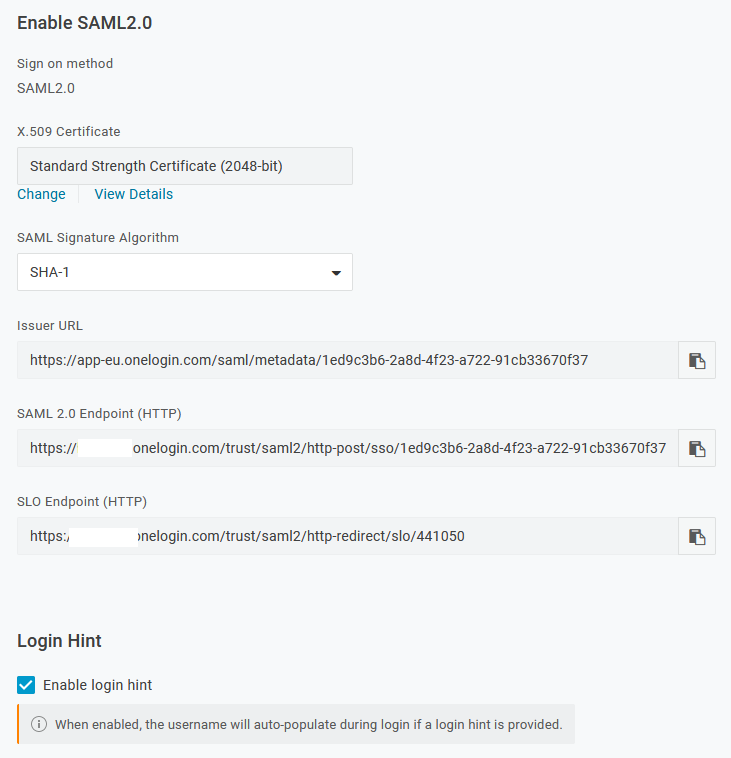
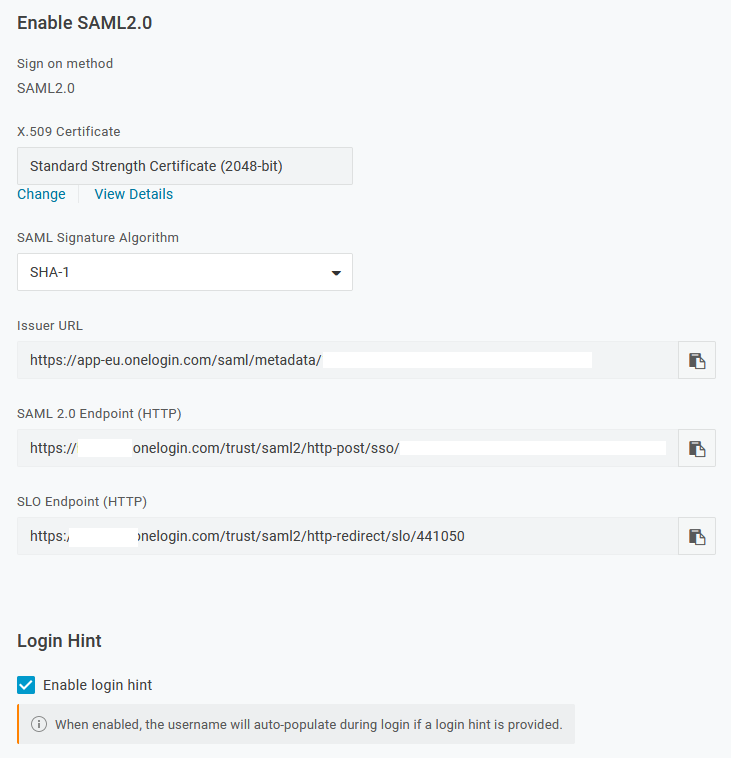
Updated/corrected screenshots and text regarding OneLogin.

Changed region(s): [[0.5417, 0.5765, 0.9029, 0.6069], [0.4514, 0.4551, 0.8126, 0.4855]]

diff --git a/docs/organization-integration/usermanagement.md b/docs/organization-integration/usermanagement.md
@@ -32,7 +32,7 @@ With this module, a Sigrid administrator can perform all the basic authenticatio
 When Sigrid is linked to your SSO the user provisioning is done by the IdP. Sigrid supports SAML or OpenID Connect protocols.
 
 ### Note
-- SSO improves the ease of use for your colleagues because there is no Sigrid password to remember 
+- SSO improves the ease of use for your colleagues because there is no Sigrid password to remember. 
 - Improves security because users are created and deleted centrally in your organisation.
 - Sigrid follows the password policy of your organisation.
 
@@ -40,7 +40,7 @@ When Sigrid is linked to your SSO the user provisioning is done by the IdP. Sigr
 - Check the last login
 - Do authorisation tasks to define who can see what in Sigrid
 
-### Setup customer side
+### Setup on client side
 Create an Enterprise application 'app' in your IdP with the following details: 
 - Audience or Identifier (Entity) ID: urn:amazon:cognito:sp:eu-central-1_hwh9zdyCY
 - Reply URL: https://auth.sigrid-says.com/saml2/idpresponse
@@ -60,17 +60,16 @@ Other
 - Signature Algorithm: RSA_SHA256
 - Digest Algorithm: SHA256
 - Assertion Encryption: unencrypted (privacy is provided by using HTTPS)
-- Saml Single Logout: disabled
+- SAML Single Logout: disabled
 
-Then assign groups of users to your Authentication app
+Then assign groups of users to your Authentication app.
 
-### Examples
-
-For Active Directory:
+### Example Active Directory
 
 <img src="../images/azure-saml.png" width="800" />
 
-For OneLogin: [this page](usermanagement-example-onelogin.md)
+### Example OneLogin
+Please see the separate [OneLogin page](usermanagement-example-onelogin.md).
 
 
 ### Info to provide to SIG

diff --git a/docs/organization-integration/usermanagement-example-onelogin.md b/docs/organization-integration/usermanagement-example-onelogin.md
@@ -1,15 +1,23 @@
 OneLogin SAML Custom Connector (Advanced)
 ===========================================
 
-This page describes the technical setup for customer using OneLogin as Identity Management Provider.
+This page describes an example of the the technical setup if you are a customer using OneLogin as Identity Management Provider.
 
-### Screenshots for OneLogin config
+## OneLogin configuration screen
 
 <img src="../images/onelogin-saml-1.png" width="800" />
-<img src="../images/onelogin-saml-2.png" width="800" />
-<img src="../images/onelogin-saml-3.png" width="800" />
-<img src="../images/onelogin-saml-4.png" width="800" />
 
+## SAML parameters screen
+
+<img src="../images/onelogin-saml-2.png" width="800" />
+
+## Connector parameters screen
+
+<img src="../images/onelogin-saml-3.png" width="800" />
+
+## SAML URLs and endpoints
+
+<img src="../images/onelogin-saml-4.png" width="800" />
 
 
 # Contact and support
